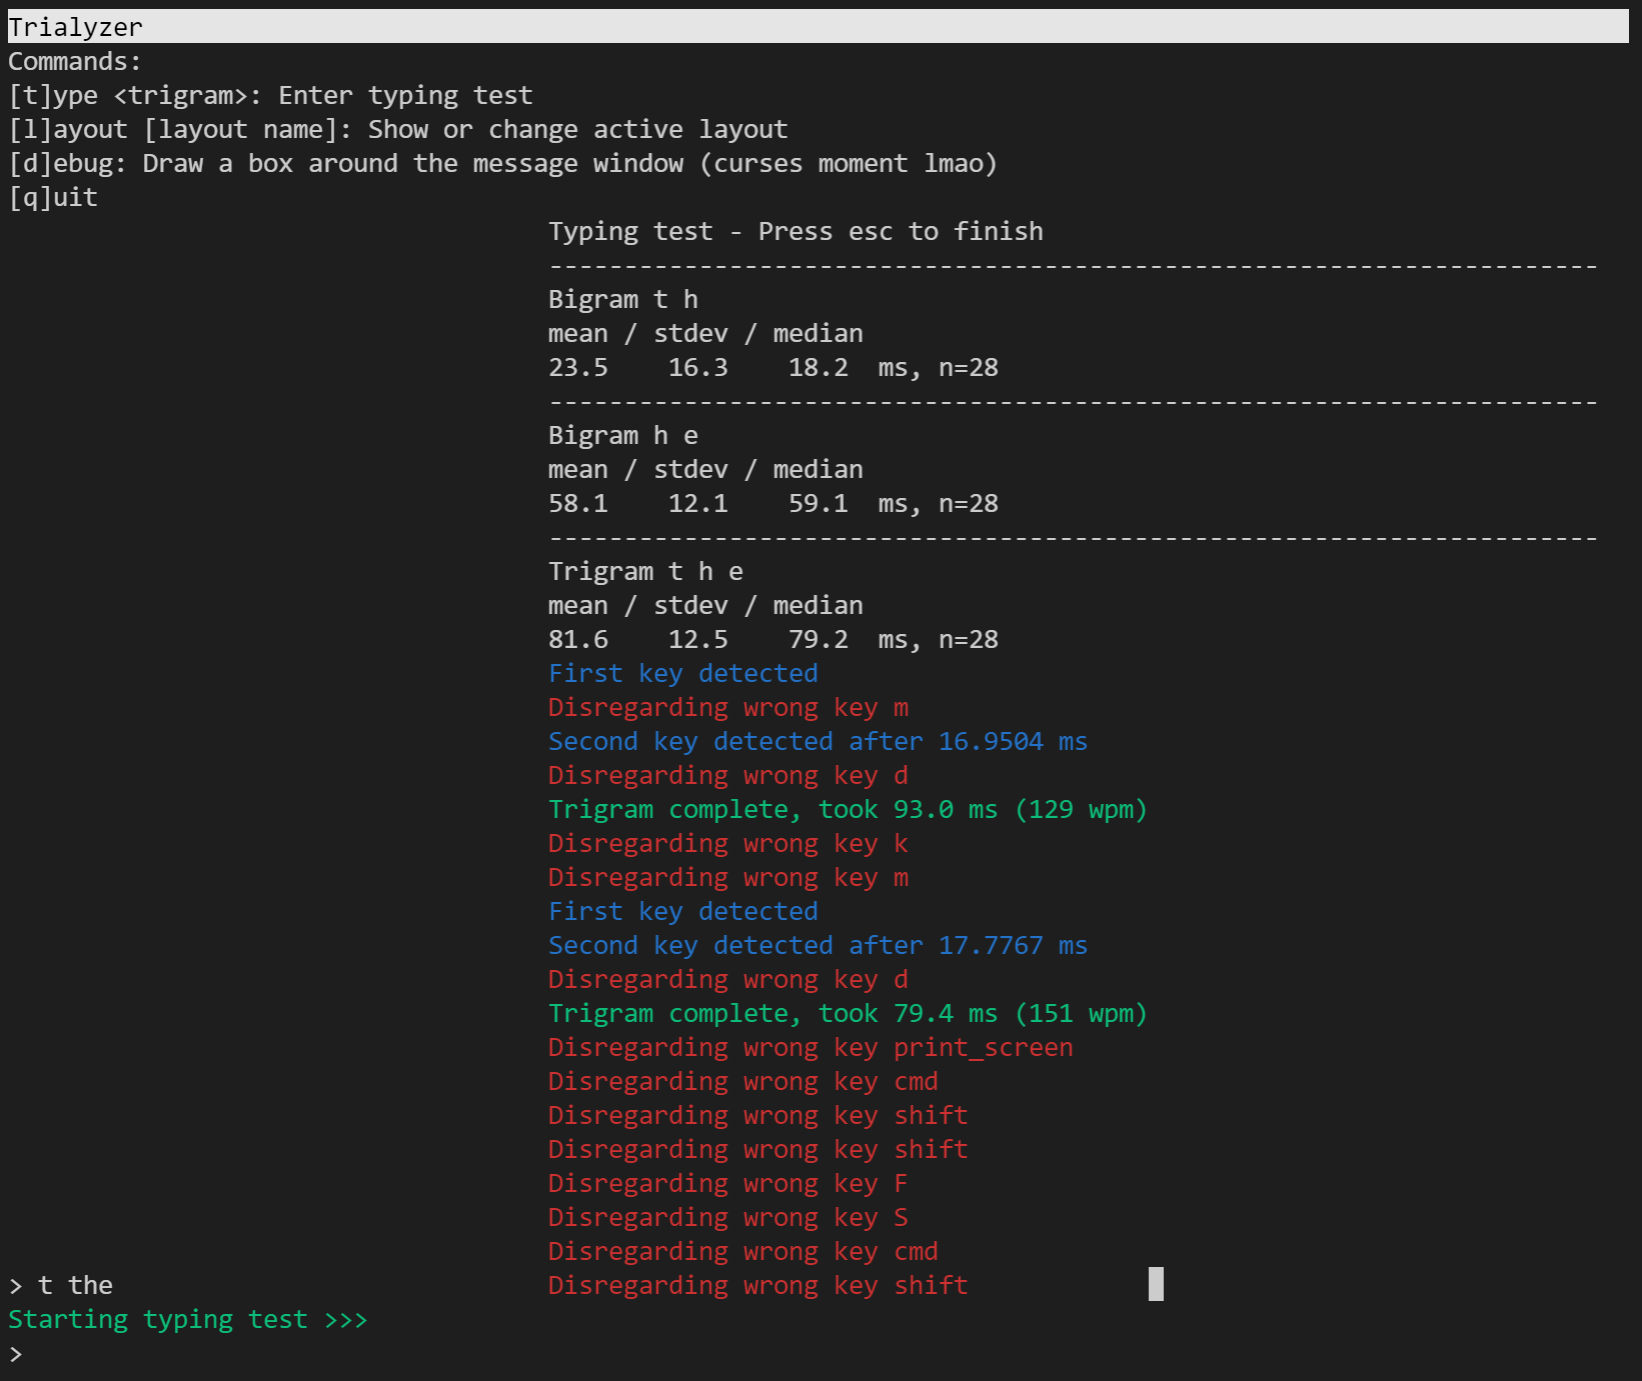
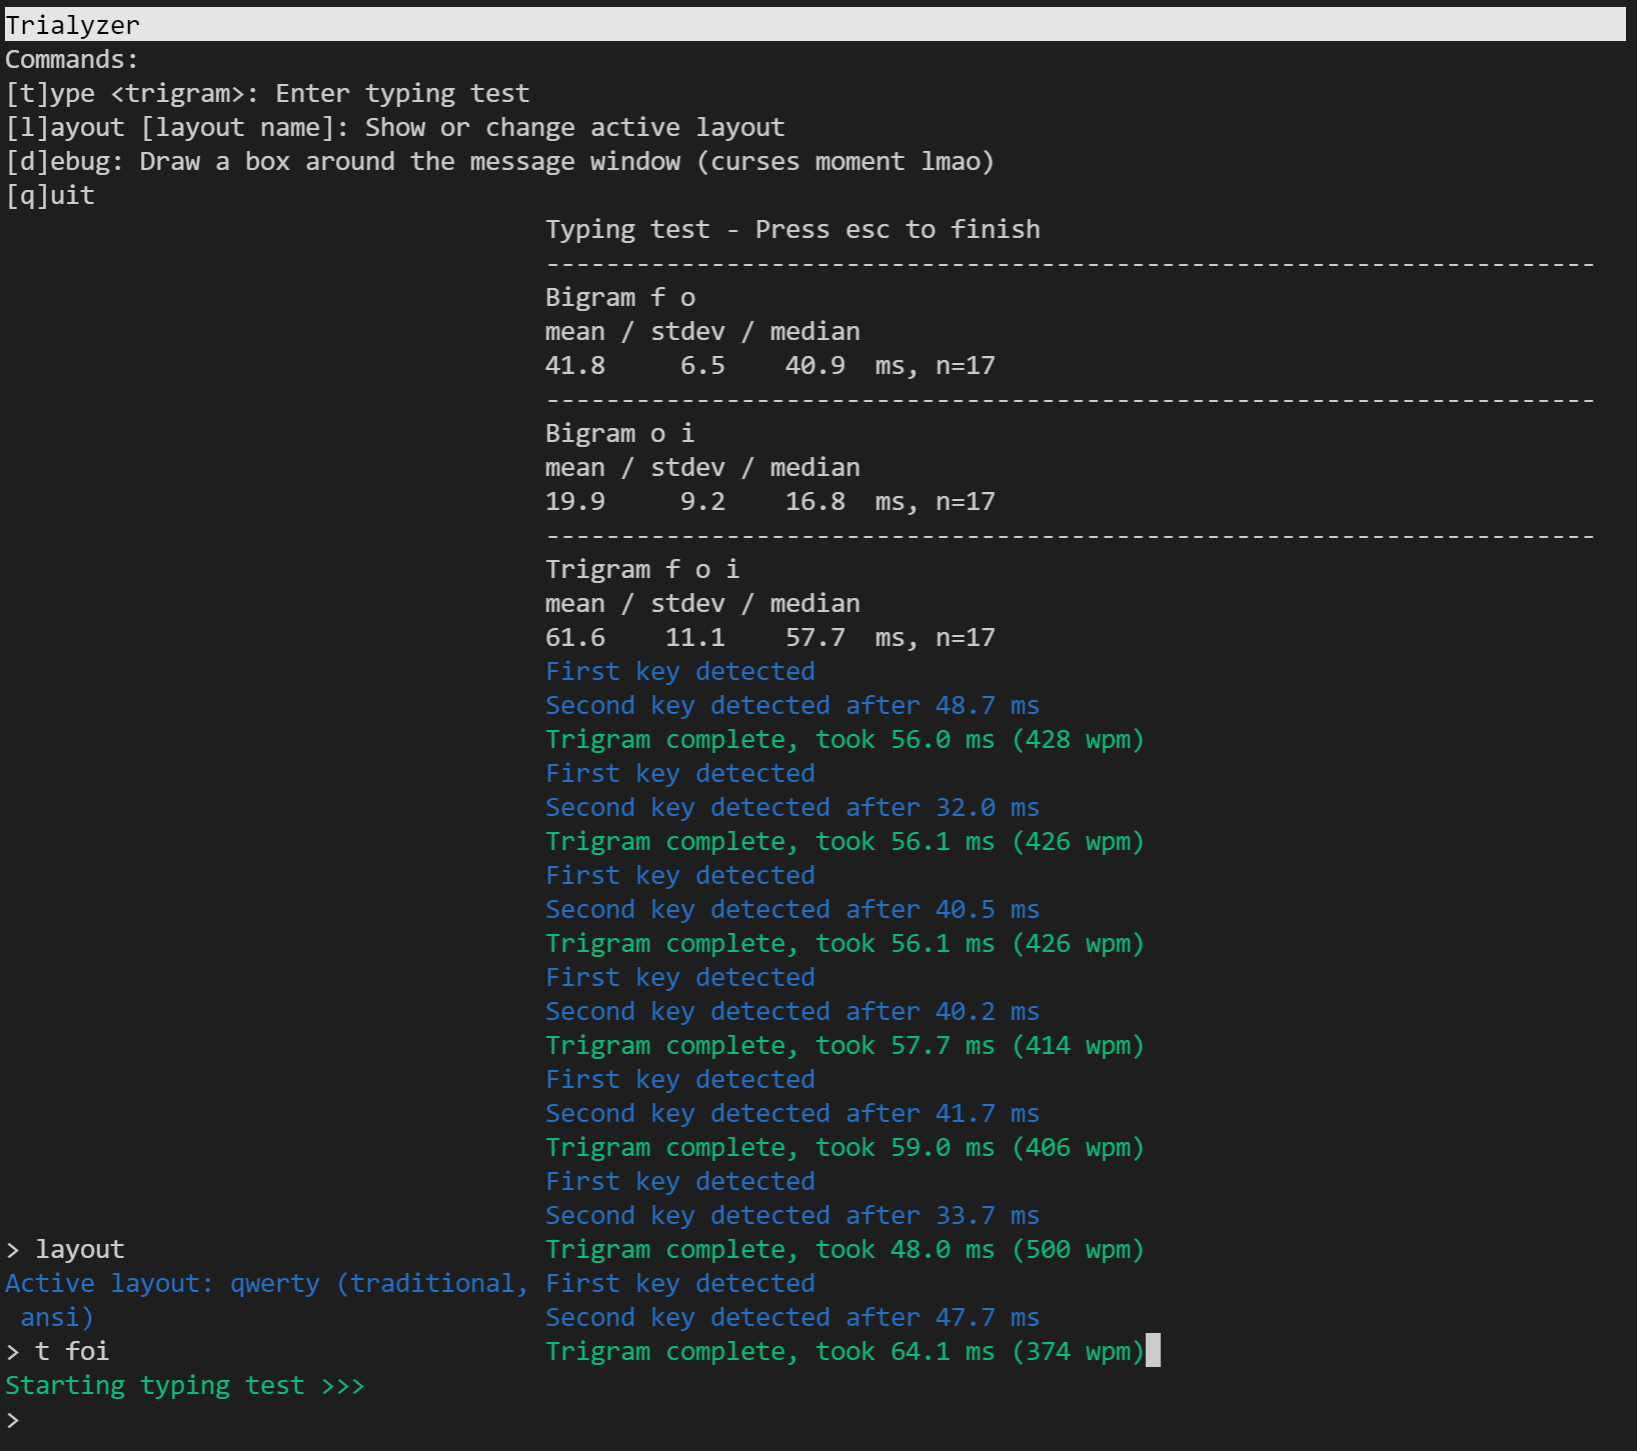
define tristroke

Changed region(s): [[0.0, 0.1557, 0.7166, 0.9652], [0.0, 0.0, 0.9969, 0.1557]]

diff --git a/layout.py b/layout.py
@@ -1,5 +1,8 @@
+from collections import namedtuple
 import board
 import fingermap
+
+Tristroke = namedtuple("Tristroke", "fingers coords")
 
 class Layout:
 
@@ -47,11 +50,11 @@ class Layout:
     def coord(self, keyname: str) -> board.Coord:
         return self.board.coords[self.positions[keyname]]
 
-    def  start_writable_row(self, trigram: list, note = None, fingers = ...):
-        """Returns a list of strings and floats, describing a physical
-        trigram, intended for writing to a row of a csv. Further entries 
-        should be appended to the end of this row, which would be the actual
-        typing speed data for that trigram.
+    def start_writable_row(self, trigram: list, note = None, fingers = ...):
+        """Returns a list of strings and floats, describing a tristroke, 
+        intended for writing to a row of a csv. Further entries should be 
+        appended to the end of this row, which would be the actual typing 
+        speed data for that trigram.
 
         trigram
          A list of key names. Will be converted to coordinates based on the
@@ -75,6 +78,10 @@ class Layout:
             result.append(coord.x)
             result.append(coord.y)
         return result
+
+    def to_tristroke(self, trigram: list) -> Tristroke:
+        return Tristroke(tuple(self.finger(char) for char in trigram),
+                      tuple(self.coord(char) for char in trigram))
 
 def get_layout(name: str) -> Layout:
     if name not in Layout.loaded:

diff --git a/board.py b/board.py
@@ -26,7 +26,7 @@ class Board:
             x = float(tokens[2])
             y = float(tokens[3])
             if len(tokens) >= 5:
-                c2 = tokens[4]
+                c2 = int(tokens[4])
             else:
                 c2 = c1
             for c in range(c1, c2 + 1):

diff --git a/README.md b/README.md
@@ -48,12 +48,12 @@ A mapping between key names (`a`, `;`, `LShift`) and key positions (row, column)
 A mapping between key positions (row, column) and fingers (`LI` for left index, `RP` for right pinky.) Examples: `traditional`, `angle_iso`.
 
 **Board**  
-A mapping between key positions (row, column) and physical locations of the keys (vertical and horizontal coordinates). Examples: `iso`, `matrix`. 
+A mapping between key positions (row, column) and physical locations of the keys (x/y coordinates). Examples: `iso`, `matrix`. 
 
 **Bigram, trigram, n-gram**  
-Existing terminology meaning a sequence of characters or key names. In trialyzer, these may be called "text n-grams" to distinguish them from physical n-grams (see below). However, I may slip up and sometimes just use terms like "trigram" ambiguously. Sorry.
+Existing terminology meaning a sequence of characters or key names. These may be called "text n-grams" to further clarify that they refer only to key names, which may vary depending on layout, as opposed to physical keys on the board.
 
-**Physical bigram, trigram, n-gram**  
-A sequence of physical key locations on the board. Trialyzer collects data on the typing speeds of different physical trigrams using its built-in typing test, then applies it to analyze a selected layout by associating those physical trigrams with text trigrams. I was thinking of inventing the new terms "bikey", "trikey", and so on, but they just look funny as words, and wouldn't be easily understood for someone not reading through the bowels of this document, so that's on hold for now.
+**Bistroke, tristroke, n-stroke**  
+A sequence of physical key locations on the board, each associated with the finger used for that key. Trialyzer collects data on the typing speeds of different tristrokes using its built-in typing test, then applies it to analyze a selected layout by associating those tristrokes with text trigrams.
 
-(Note: Different fingermap-board combinations may have some physical trigrams in common; for instance, all physical trigrams involving the top and home row are identical between `traditional`-`ansi` and `angle_iso`-`iso`. Moreover, though the right hand is in a different position in `angle_iso`-`iso` versus `angle_wide_iso`-`iso`, the shape of each physical trigram on the right hand is identical. Trialyzer will detect these commonalities, and allow the relevant typing speed data to be shared between different boards.)
+(Note: Different fingermap-board combinations may have some tristrokes in common; for instance, all tristrokes involving the top and home row are identical between `traditional`-`ansi` and `angle_iso`-`iso`. Moreover, though the right hand is in a different position in `angle_iso`-`iso` versus `angle_wide_iso`-`iso`, the shape of each tristroke on the right hand is identical. Trialyzer will detect these commonalities, and allow the relevant typing speed data to be shared between different boards.)
